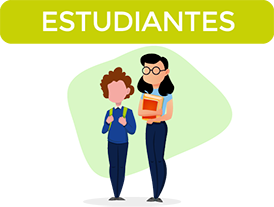
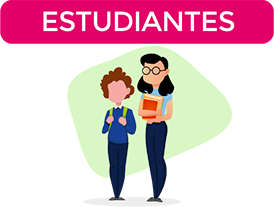
Nuevas imagenes
Se agregan imagenes para diseño más selectivo por secciones

Changed region(s): [[0.0, 0.0, 1.0, 0.2319]]

diff --git a/src/componentes/EnlacesCovid.js b/src/componentes/EnlacesCovid.js
@@ -26,7 +26,7 @@ function EnlacesCovid (props) {
             
             <div className="row">
                 <div className="col-sm-12">
-                    <p className="indicaciones">Conjunto de recursos en video y pdf, para apoyar en la comprensión del porqué y cómo actuar ante el estado de emergencia COVID-19 en nuestro país.</p>
+                    <strong className="indicaciones">Conjunto de recursos en video y pdf, para apoyar en la comprensión del porqué y cómo actuar ante el estado de emergencia COVID-19 en nuestro país.</strong>
                 </div>
             </div>
             <hr/>

diff --git a/src/componentes/Menu.js b/src/componentes/Menu.js
@@ -151,7 +151,7 @@ function Menu(props) {
 
          <div className="row">
             <div className="col-sm-10">
-            <p className="creditos"> DIRECCIÓN DE RECURSOS TECNOLÓGICOS EN EDUCACIÓN <br/> DIRECCIÓN DE DESARROLLO CURRICULAR</p>
+            <strong className="creditos"> DIRECCIÓN DE RECURSOS TECNOLÓGICOS EN EDUCACIÓN <br/> DIRECCIÓN DE DESARROLLO CURRICULAR</strong>
             </div>
             <div className="col-sm-2">
                 <img src={imgLogo} alt="Imagen de virus animado"/>

diff --git a/src/css/master.css b/src/css/master.css
@@ -12,7 +12,7 @@ body {
 
 .btn-recursos
 {
-    margin-top: -5%;
+    margin-top: -8%;
     margin-left: 5%;
     cursor: pointer;
 }
@@ -37,7 +37,7 @@ background-color:#009962;
 
 .creditos
 {
-  color: #7087B7;  
+  color: #A4A4A4;  
   font-size: 100%;
   line-height: 1.5
 }
@@ -45,11 +45,17 @@ background-color:#009962;
 .cargando
 {
   color: #7087B7;  
-  font-size: 100%;
+  font-size: 130%;
 }
 
 .indicaciones
 {
     color: #7087B7;  
     font-size: 100%;  
+}
+
+
+a 
+{ 
+    color: #E40069; 
 }
